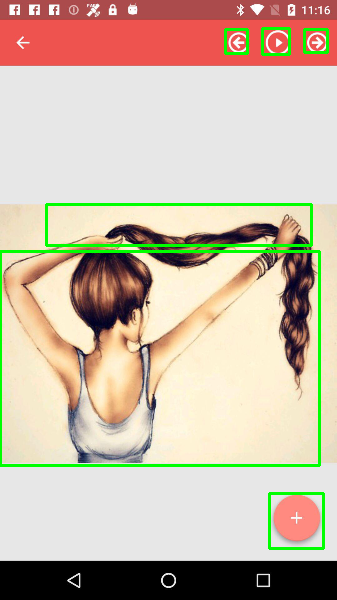
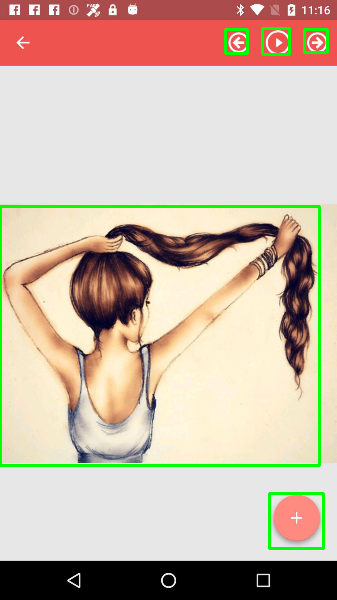
do not merge containing compo

Changed region(s): [[0.0, 0.33, 0.9496, 0.42]]

diff --git a/code/WORKPLACE/UIED-RICO/detect_compo/lib_ip/ip_detection.py b/code/WORKPLACE/UIED-RICO/detect_compo/lib_ip/ip_detection.py
@@ -100,6 +100,8 @@ def merge_intersected_corner(corners):
     def is_intersected(corner_a, corner_b):
         ((col_min_a, row_min_a), (col_max_a, row_max_a)) = corner_a
         ((col_min_b, row_min_b), (col_max_b, row_max_b)) = corner_b
+        area_a = (col_max_a - col_min_a) * (row_max_a - row_min_a)
+        area_b = (col_max_b - col_min_b) * (row_max_b - row_min_b)
 
         # get the intersected area
         col_min_s = max(col_min_a, col_min_b)
@@ -109,8 +111,8 @@ def merge_intersected_corner(corners):
         w = max(0, col_max_s - col_min_s)
         h = max(0, row_max_s - row_min_s)
         inter = w * h
-        # intersected
-        if inter == 0:
+        # intersected but not containing
+        if inter == 0 and inter != area_a and inter != area_b:
             return False
         # very closed
         return True
@@ -369,8 +371,8 @@ def rm_top_or_bottom_corners(corners, org_shape, top_bottom_height=C.THRESHOLD_T
     for corner in corners:
         ((column_min, row_min), (column_max, row_max)) = corner
         # remove big ones
-        if (row_max - row_min) / height > 0.65 and (column_max - column_min) / width > 0.8:
-            continue
+        # if (row_max - row_min) / height > 0.65 and (column_max - column_min) / width > 0.8:
+        #     continue
         if not (row_max < height * top_bottom_height[0] or row_min > height * top_bottom_height[1]):
             new_corners.append(corner)
     return new_corners

diff --git a/code/WORKPLACE/UIED-RICO/detect_compo/lib_ip/ip_detection_utils.py b/code/WORKPLACE/UIED-RICO/detect_compo/lib_ip/ip_detection_utils.py
@@ -133,7 +133,6 @@ def boundary_is_rectangle(boundary, min_rec_evenness, max_dent_ratio, org_shape=
             # if the surface is not changing to a pit and the gradient is zero, then count it as flat
             if abs(depth) < 3:
                 flat += 1
-
         # if the pit is too big, the shape should not be a rectangle
         if pit / len(border) > max_dent_ratio:
             return False

diff --git a/code/WORKPLACE/UIED-RICO/detect_compo/ip_region_proposal.py b/code/WORKPLACE/UIED-RICO/detect_compo/ip_region_proposal.py
@@ -30,7 +30,7 @@ def processing_block(org, binary, blocks_corner):
              corners of detected components in blocks;
              corresponding classes of components;
     '''
-    blocks_clip_bin = seg.clipping(binary, blocks_corner, shrink=2)
+    blocks_clip_bin = seg.clipping(binary, blocks_corner, shrink=0)
 
     all_compos_corner = []
     for i in range(len(blocks_corner)):

diff --git a/code/WORKPLACE/UIED-RICO/main_single.py b/code/WORKPLACE/UIED-RICO/main_single.py
@@ -4,7 +4,7 @@ import time
 resize_by_height = 800
 
 # set input image path
-PATH_IMG_INPUT = 'data\\input\\426.jpg'
+PATH_IMG_INPUT = 'data\\input\\175.jpg'
 PATH_OUTPUT_ROOT = 'data\\output'
 
 start = time.clock()
